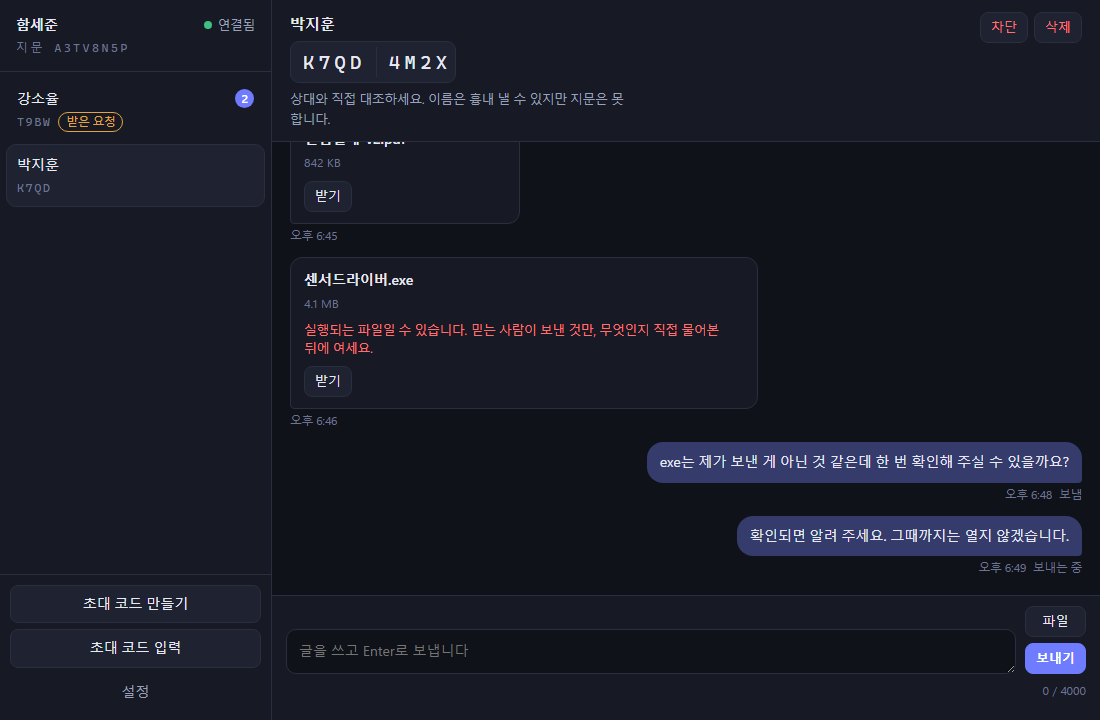
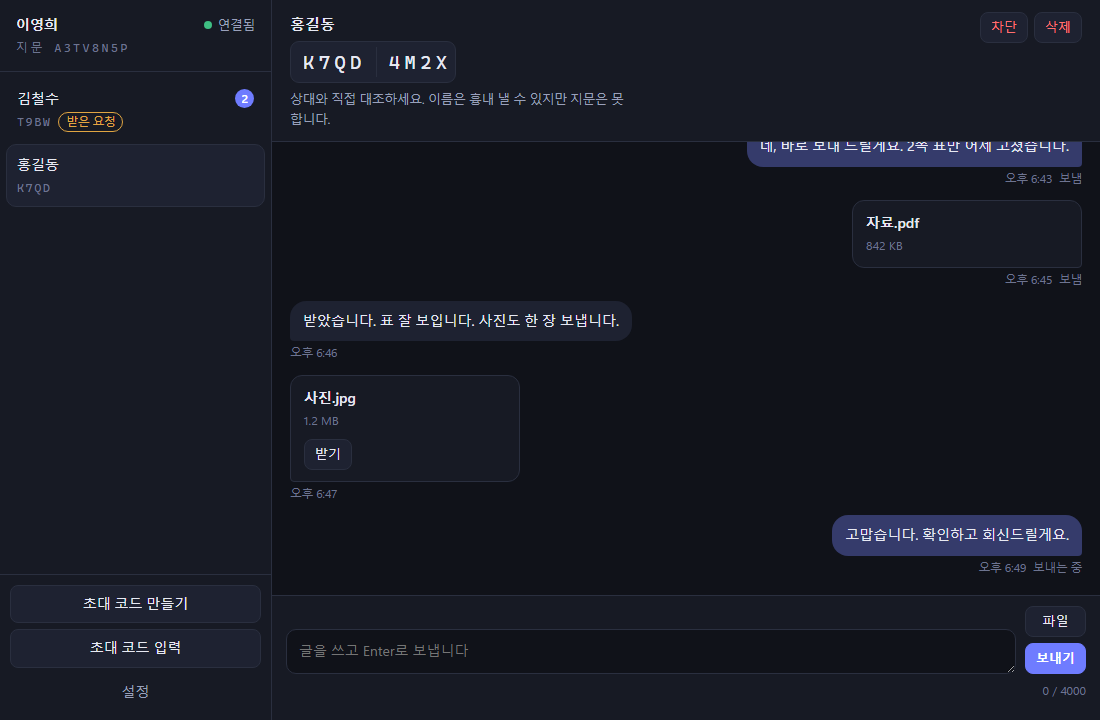
docs: README login wording + screenshots, privacy notes, runbook egress, roadmap untracked
- README: 6자리 코드 / 링크 주소 붙여넣기(허브 메일 설정에 따라 다름) 문구로 고치고
  한/영 양쪽에 반영. 화면 절(로그인·대화 그림 2장) 추가.
- 대화 화면 다시 촬영(1100×720): 사람 이름·파일 이름·대화를 전부 지어낸 것으로 교체.
- 처리방침: 두 사용자 번호를 아는 사람은 둘의 연결 여부를 알아낼 수 있다는 점,
  탈퇴해도 올린 파일 실체는 90일 청소 때 지워진다는 점 명시.
- 운영.md ③: 월 송출 5GB 는 daily.mjs 가 잴 수 없고 대시보드에서 직접 본다.
- 설계.md 13절 ⑧: ack 직후 ms 창은 2초 뒤·2분마다 gapFill 이 메운다.
- 배포물에서 "Task N" 자취 제거, docs/로드맵.md 는 추적 해제(로컬 파일은 유지).

diff --git a/hub/server/처리방침.md b/hub/server/처리방침.md
@@ -7,7 +7,7 @@
 - 이메일 주소(로그인용)
 - 표시 이름
 - 공개 열쇠(public key) — 메시지 암호화에 쓰이며, 그 자체로는 메시지를 열 수 없습니다
-- 연락처 관계 — 누가 누구와 연결되어 있는지(수락된 관계, 대기 중인 관계, 차단 관계)
+- 연락처 관계 — 누가 누구와 연결되어 있는지(수락된 관계, 대기 중인 관계, 차단 관계). 두 사용자의 번호(uuid)를 모두 아는 사람은 그 둘이 연결되어 있는지를 서버에 물어 알아낼 수 있습니다(메시지 정책이 쓰는 보조 함수 `pair_status`의 성질입니다). 사용자 번호는 서로 연락처를 맺은 상대와 서버 운영자만 알 수 있습니다.
 - 메시지를 보내고 받은 시각(발신 시각·수신 시각) — "누가 누구에게 언제 몇 번 보냈는지"에 해당하는 메타데이터
 
 ## 절대 수집하지 않는 것
@@ -21,6 +21,7 @@
 - 배달이 확인된 메시지는 **배달 후 30일**이 지나면 서버에서 자동 삭제됩니다.
 - 계정을 삭제(탈퇴)하면 **즉시** 그 사용자와 관련된 모든 줄(프로필·연락처·메시지·초대)이 삭제됩니다.
 - 첨부 파일(Storage)은 배달 여부와 무관하게 업로드 후 90일이 지나면 삭제됩니다.
+- **탈퇴해도 이미 올린 첨부 파일의 실체는 즉시 지워지지 않습니다** — 위 90일 청소가 돌 때 함께 삭제됩니다(표의 줄은 즉시 사라지므로 그 파일을 가리키는 편지는 아무도 열 수 없게 됩니다).
 
 ## 나이 제한
 

diff --git a/docs/설계.md b/docs/설계.md
@@ -163,4 +163,4 @@
 
 ⑦ **파일 전송 실패는 outbox 자동 재시도에 들어가지 않는다.** 조각 6은 글 메시지의 outbox 재시도(3회 실패 시 중단)만 정했고 파일은 구분하지 않았으나, `module/messages.mjs`는 파일을 Storage에 올리는 단계가 끝나기 전에는 그 편지를 outbox 재시도 목록에 넣지 않는다("파일이 아직 Storage에 없는데 INSERT만 재시도하면" 안 됨) — 즉 파일 업로드 자체가 실패하면 자동 재시도 없이 그 자리에서 멈추고, 파일이 Storage에 자리 잡은 뒤의 메시지 행 INSERT만 outbox 재시도 대상이 된다. 사용자에게는 업로드 실패 시 다시 보내기를 직접 눌러야 한다는 뜻이며, 화면 문구로 안내한다.
 
-⑧ 실시간 `online`은 구독 ack(phx_reply ok) 뒤에만 켜진다(2026-09-13 라이브 실측 뒤 수정).
+⑧ 실시간 `online`은 구독 ack(phx_reply ok) 뒤에만 켜진다(2026-09-13 라이브 실측 뒤 수정). 그 대신 **ack 직후 ms 창은 2초 뒤·2분마다 gapFill이 메운다** — 구독이 받아들여지는 그 순간에 서버에 들어온 줄은 도어벨을 울리지 못하므로, 연결된 뒤 2초에 한 번 더 훑고 연결돼 있는 동안 2분마다 한 번씩 훑는다(끊기면 이 두 타이머는 거두고 `slow` 폴링이 그 자리를 맡는다).

diff --git a/hub/server/운영.md b/hub/server/운영.md
@@ -24,7 +24,8 @@
   ```
   schtasks /create /tn "IRIS-Messenger-ops-daily" /tr "node \"<repo>\\hub\\server\\ops\\daily.mjs\"" /sc daily /st 09:00
   ```
-- **계정 이름**: Management API PAT = secrets 키 `SUPABASE_ACCESS_TOKEN_FEYNMAN520`(GitHub에는 절대 두지 않음, 운영자 PC의 예약 작업에서만 읽음).
+- **월 송출(egress) 5GB는 `daily.mjs`가 잴 수 없다. 매달 Supabase 대시보드(Settings → Usage)에서 직접 본다.** Management API는 프로젝트별 송출량을 내주지 않으므로 이 한 가지만 사람이 눈으로 확인한다(나머지 셋 — DB·Storage·가입자 — 은 스크립트가 잰다).
+- **계정 이름**: Management API PAT = secrets 키 `SUPABASE_ACCESS_TOKEN`(계정이 여럿이면 `SUPABASE_ACCESS_TOKEN_<계정>`; 이 저장소 저자는 `SUPABASE_ACCESS_TOKEN_FEYNMAN520`). GitHub에는 절대 두지 않고, 운영자 PC의 예약 작업에서만 읽는다.
 
 ### 참고 — 초대 코드 잠금창 관련 확정 사항 (2026-09-13 마무리)
 
